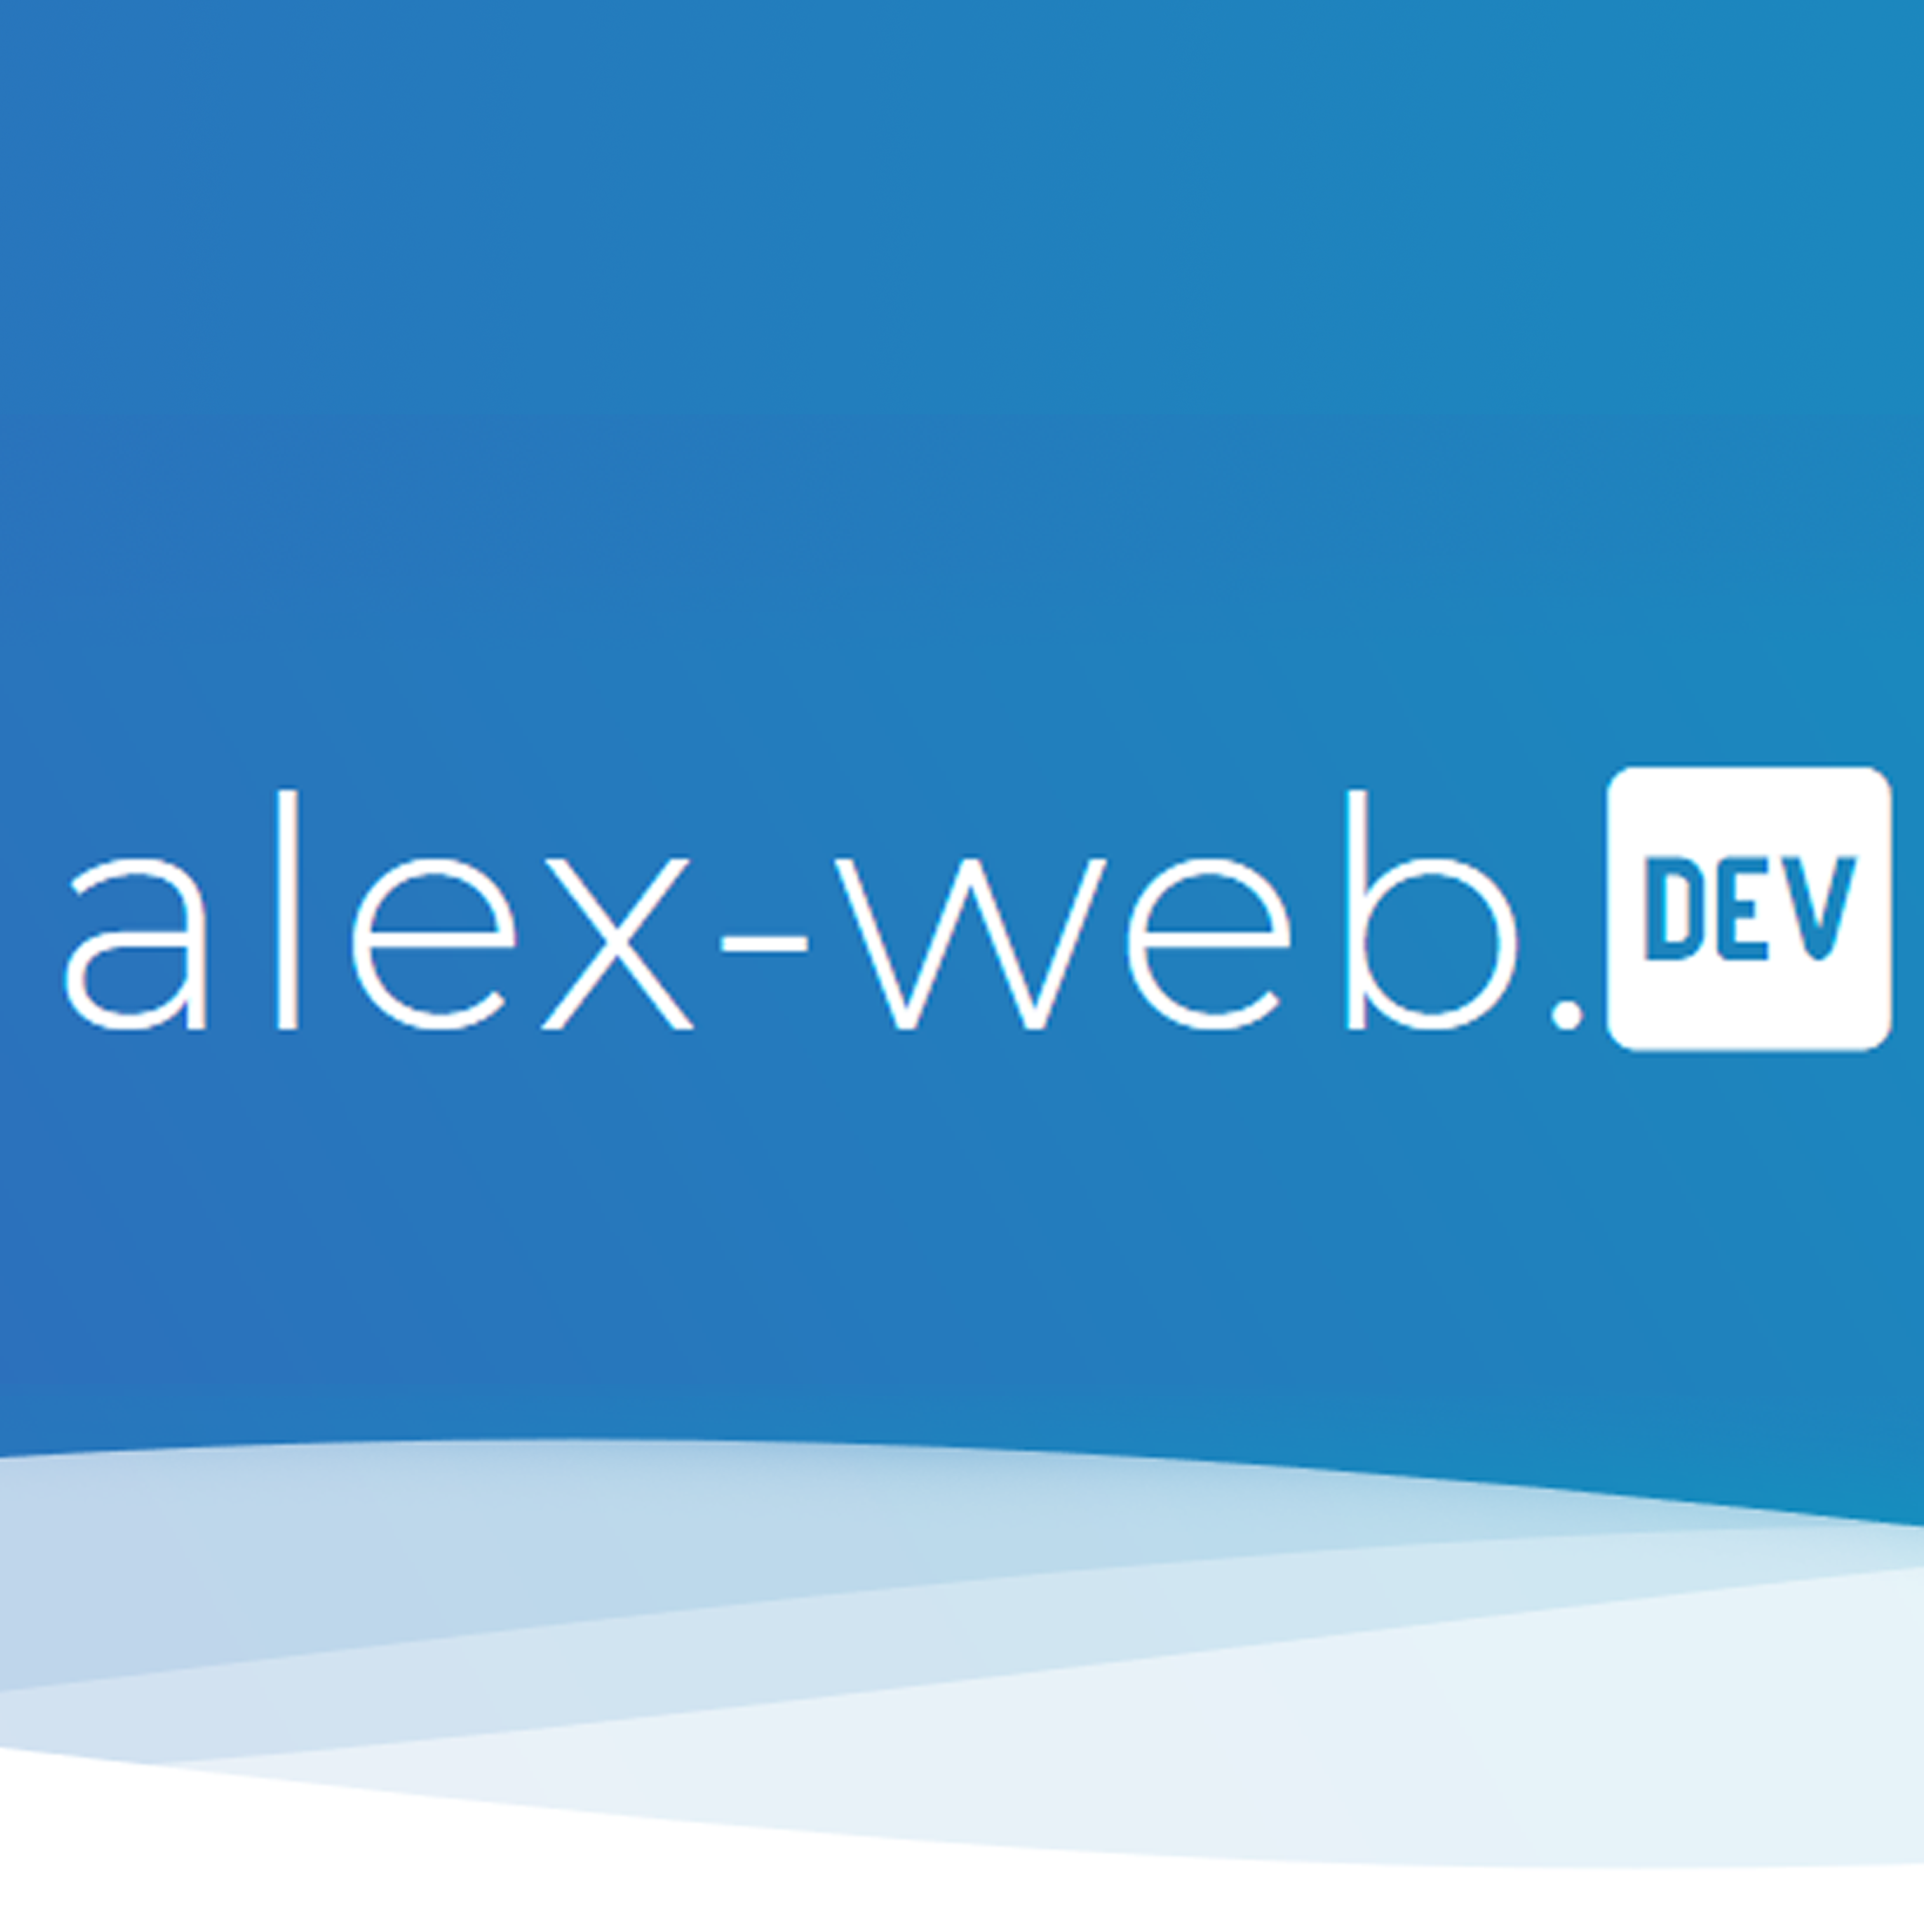
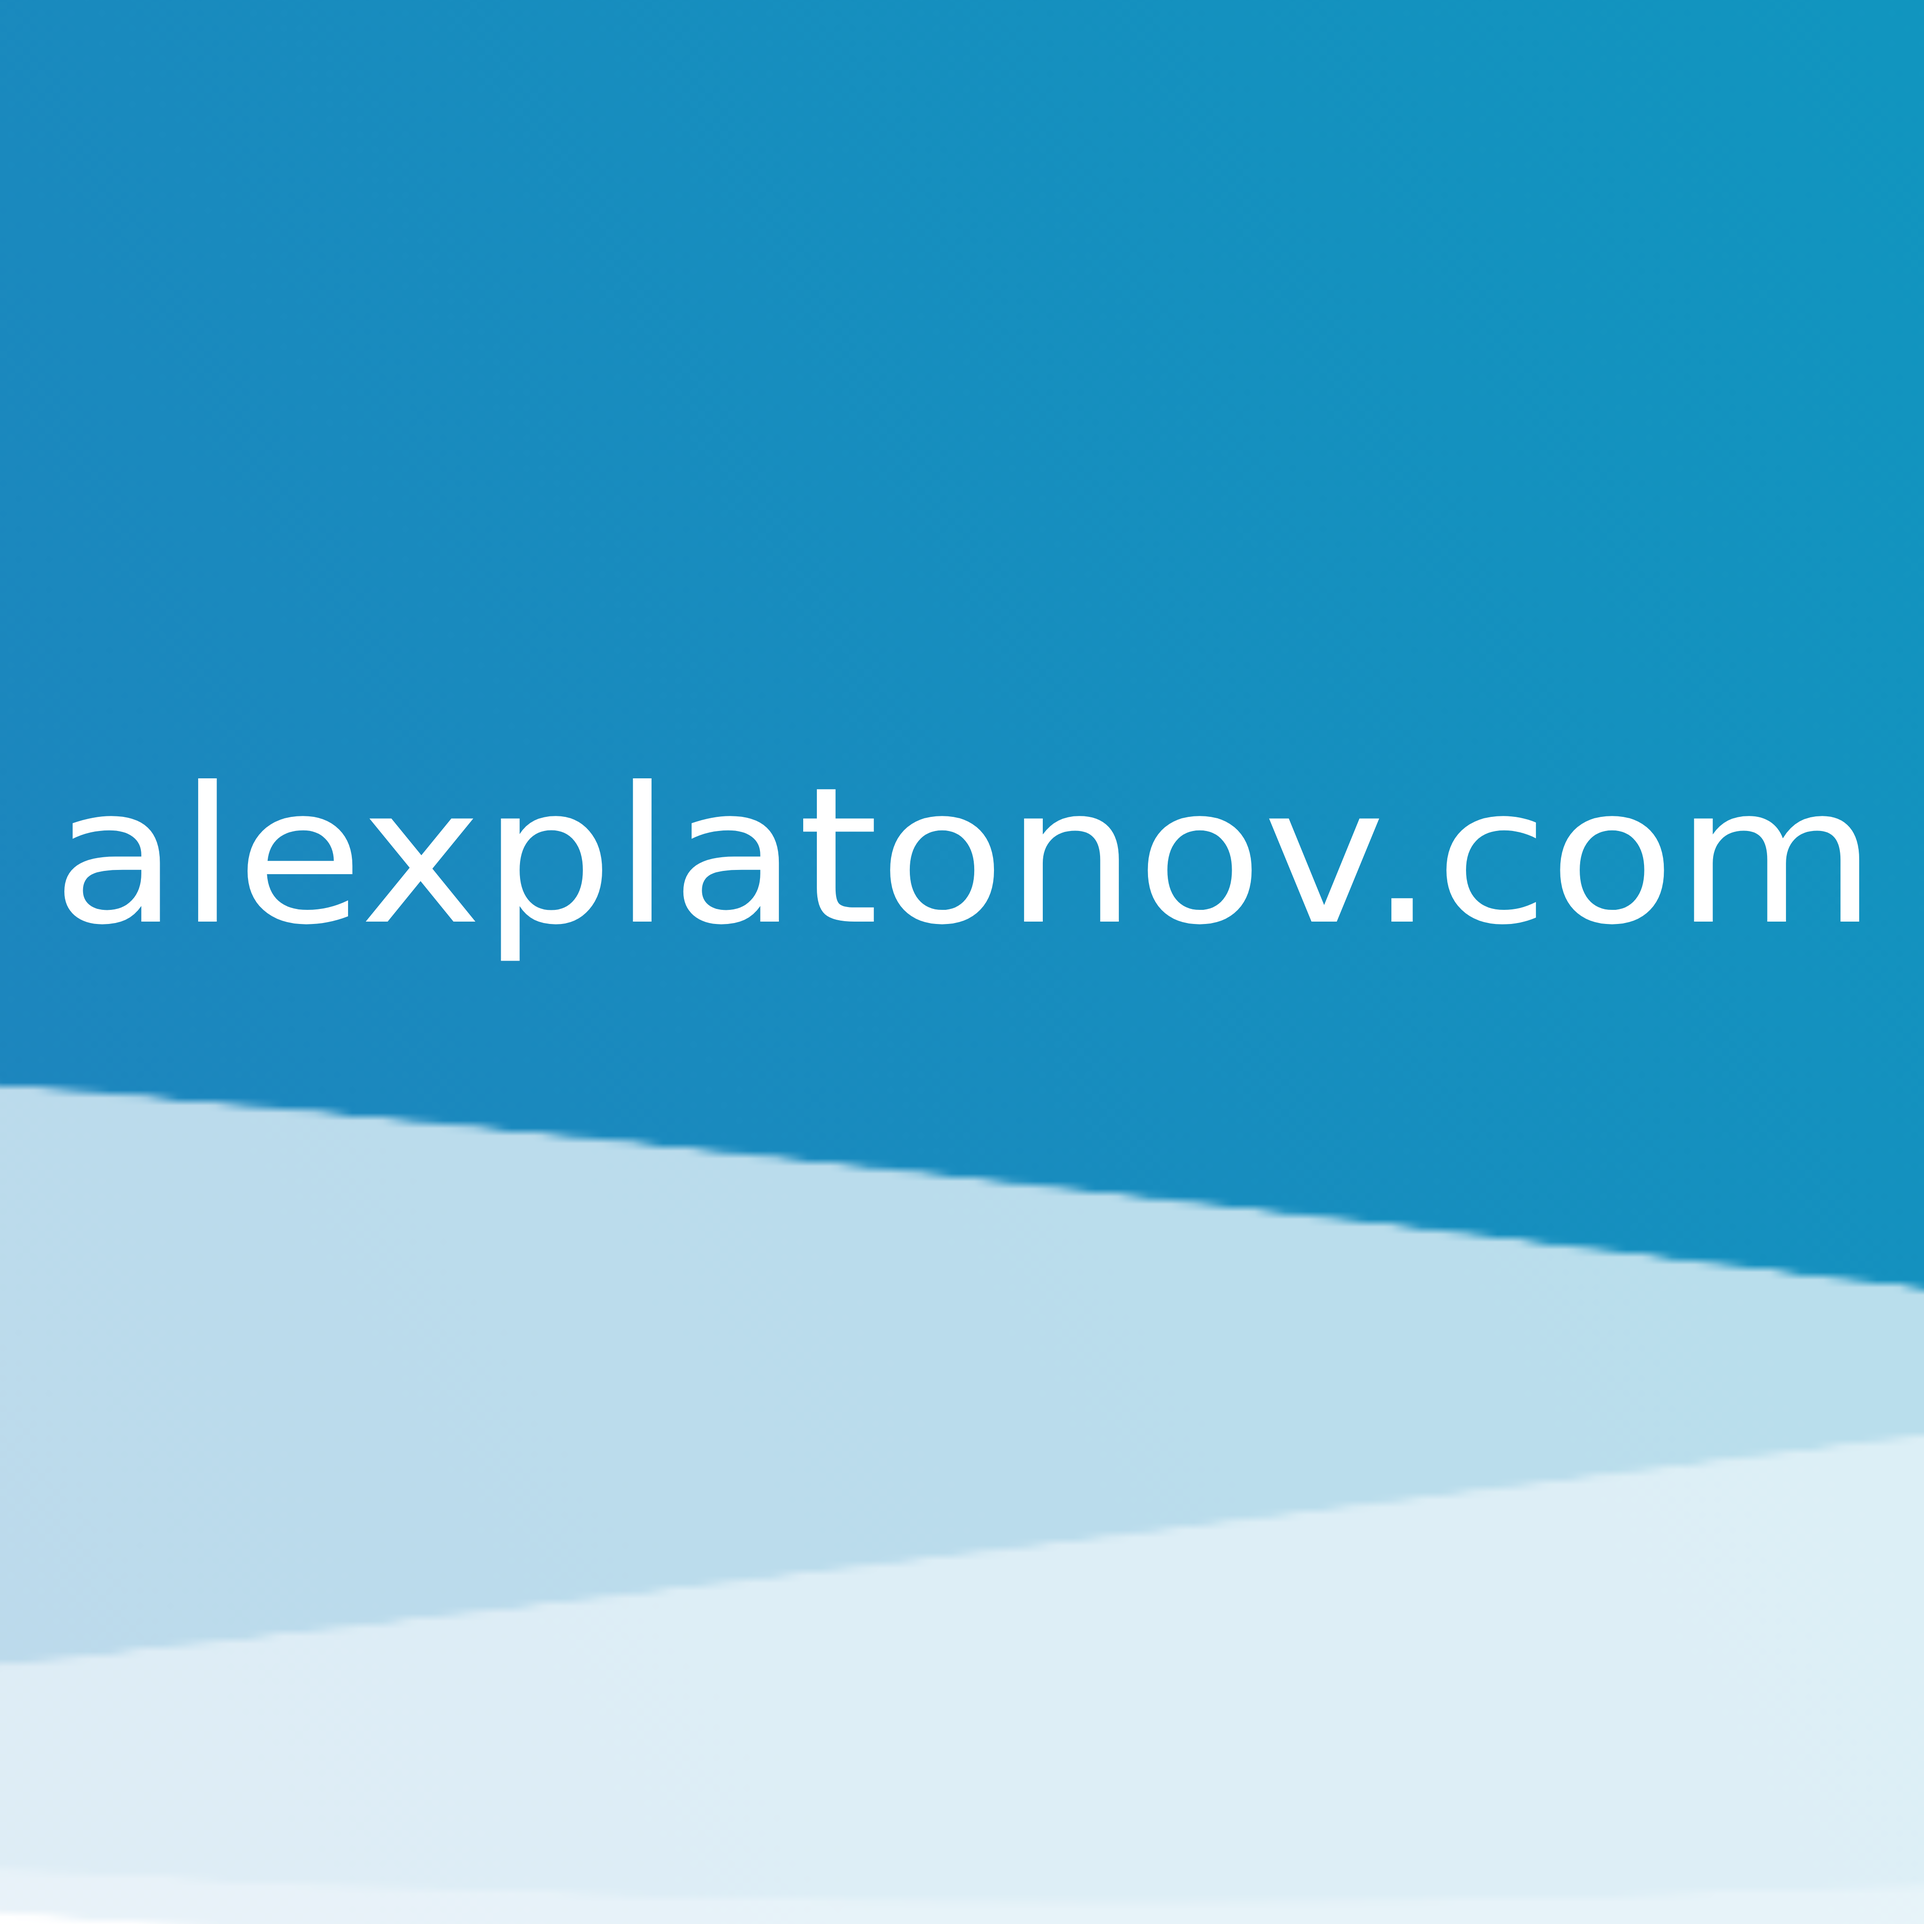
update site to alexplatonov.com

Changed region(s): [[0.0, 0.375, 1.0, 0.875], [0.0, 0.9062, 1.0, 1.0]]

diff --git a/mobile.html b/mobile.html
@@ -4,46 +4,46 @@
     <meta charset="UTF-8">
     <meta name="viewport" content="width=device-width, initial-scale=1.0">
     <meta http-equiv="X-UA-Compatible" content="ie=edge">
-    <meta name="description" content="Just another Website for Kaomojis!">
+    <meta name="description" content="https://www.alexplatonov.com">
     <link rel="icon" type="image/png" href="favicon-32x32.png" sizes="32x32">
     <!--Implement video meta data-->
 
     <!--New Meta data for WhatsApp-->
-    <meta name="description" content="No need for Ctrl+C and Ctrl+V!">
-    <meta property="og:title" content="Just another Website for Kaomojis!"/>
-    <meta property="og:url" content="https://www.0wo.moe" />
-    <meta property="og:description" content="Just another Website for Kaomojis!">
-    <meta property="og:image" content="https://www.0wo.moe/metaimgs/wametapic.jpg">
+    <meta name="description" content="Hi,  i'm Alex! I love turning coffee to code!☕">
+    <meta property="og:title" content="alex-web.dev"/>
+    <meta property="og:url" content="https://www.alexplatonov.com" />
+    <meta property="og:description" content="Hi,  i'm Alex! I love turning coffee to code!☕">
+    <meta property="og:image" content="/imgs/wametapic.png">
 
     <!-- Open Graph / Facebook -->
     <meta property="og:type" content="website">
-    <meta property="og:url" content="https://www.0wo.moe">
-    <meta property="og:title" content="Just another Website for Kaomojis!">
-    <meta property="og:description" content="No need for Ctrl+C and Ctrl+V!">
-    <meta property="og:image" content="https://www.0wo.moe/metaimgs/fb">
+    <meta property="og:url" content="https://www.alexplatonov.com">
+    <meta property="og:title" content="alex-web.dev">
+    <meta property="og:description" content="Hi,  i'm Alex! I love turning coffee to code!☕">
+    <meta property="og:image" content="/imgs/fbmetapic.png">
 
     <!-- Twitter -->
     <meta property="twitter:card" content="summary_large_image">
-    <meta property="twitter:url" content="https://www.0wo.moe">
-    <meta property="twitter:title" content="Just another Website for Kaomojis!">
-    <meta property="twitter:description" content="No need for Ctrl+C and Ctrl+V!">
-    <meta property="twitter:image" content="https://www.0wo.moe/metaimgs/fb">
+    <meta property="twitter:url" content="https://www.alexplatonov.com">
+    <meta property="twitter:title" content="alex-web.dev">
+    <meta property="twitter:description" content="Hi,  i'm Alex! I love turning coffee to code!☕">
+    <meta property="twitter:image" content="/imgs/twittermetapic.png">
 
     <link rel="stylesheet" href="style.css">
     <link rel="stylesheet" href="https://cdnjs.cloudflare.com/ajax/libs/animate.css/4.0.0/animate.min.css"/>
-    <title>alex-web.dev!</title>
+    <title>alexplatonov!</title>
 </head>
 <body>
     <div class="header">
         <div class="inner-header flex">
-            <h1>alex-web.<i class="fab fa-dev"></i></h1>
+            <h1><i class="fas fa-terminal"></i>&nbsp;<h1>alexplatonov.com</h1>
         </div>
             <p class="about">- Qualified IT-Salesman -</p>
             <p class="about">- Hobby Webdeveloper -</p>
             <p class="about">- 3D printing enthusiast -</p>
         
         <br>
-    <a href="https://www.mibph.org/comingsoon.html"><img class="animate__animated animate__fadeInUp pb" src="imgs/takoyakii.jpg"></i></a>
+    <a href="alexplatonov.com/portfolio"><img class="animate__animated animate__fadeInUp pb" src="imgs/takoyakii.jpg"></i></a>
         <p class="about"><i>"Hi! My name is Alex and in my spare time i like to convert coffee to code! I build websites but also do a lot of other cool projects, feel free to check them out!"</i></p>
         <div class ="endcard animate__animated animate__fadeInUp">
         <br>
@@ -57,11 +57,11 @@
             <p style="font-size:large;">View my Portfolio</p>
         </div>
         <br>
-<a href="https://www.mibph.org/comingsoon.html"><i class="fas fa-id-card fa-9x animate__animated animate__fadeInUp card"></i></a>
+<a href="alexplatonov.com/portfolio"><i class="fas fa-id-card fa-9x animate__animated animate__fadeInUp card"></i></a>
     </div>
         <div class="container">
-            <a href="mailto:alex@platonov.email" class="button animate__animated animate__fadeInUp">Contact me&nbsp;<i class="far fa-envelope"></i></a>
-            <span class="animate__animated animate__fadeInUp">©2020 alex-web.dev | ©Takolabs</span>
+            <a href="mailto:alexplatonov.com" class="button animate__animated animate__fadeInUp">Contact me&nbsp;<i class="far fa-envelope"></i></a>
+            <span class="animate__animated animate__fadeInUp">©2020 alexplatonov.com</span>
         </div>  
         <div>
             <svg class="waves" xmlns="http://www.w3.org/2000/svg" xmlns:xlink="http://www.w3.org/1999/xlink" viewBox="0 24 150 28" preserveAspectRatio="none" shape-rendering="auto">

diff --git a/index.html b/index.html
@@ -4,34 +4,34 @@
     <meta charset="UTF-8">
     <meta name="viewport" content="width=device-width, initial-scale=1.0">
     <meta http-equiv="X-UA-Compatible" content="ie=edge">
-    <meta name="description" content="alex-web.dev">
+    <meta name="description" content="https://www.alexplatonov.com">
     <link rel="icon" type="image/png" href="favicon-32x32.png" sizes="32x32">
     <!--Implement video meta data-->
 
     <!--New Meta data for WhatsApp-->
     <meta name="description" content="Hi,  i'm Alex! I love turning coffee to code!☕">
     <meta property="og:title" content="alex-web.dev"/>
-    <meta property="og:url" content="https://www.alex-web.dev" />
+    <meta property="og:url" content="https://www.alexplatonov.com" />
     <meta property="og:description" content="Hi,  i'm Alex! I love turning coffee to code!☕">
     <meta property="og:image" content="/imgs/wametapic.png">
 
     <!-- Open Graph / Facebook -->
     <meta property="og:type" content="website">
-    <meta property="og:url" content="https://www.alex-web.dev">
+    <meta property="og:url" content="https://www.alexplatonov.com">
     <meta property="og:title" content="alex-web.dev">
     <meta property="og:description" content="Hi,  i'm Alex! I love turning coffee to code!☕">
     <meta property="og:image" content="/imgs/fbmetapic.png">
 
     <!-- Twitter -->
     <meta property="twitter:card" content="summary_large_image">
-    <meta property="twitter:url" content="https://www.alex-web.dev">
+    <meta property="twitter:url" content="https://www.alexplatonov.com">
     <meta property="twitter:title" content="alex-web.dev">
     <meta property="twitter:description" content="Hi,  i'm Alex! I love turning coffee to code!☕">
     <meta property="twitter:image" content="/imgs/twittermetapic.png">
 
     <link rel="stylesheet" href="style.css">
     <link rel="stylesheet" href="https://cdnjs.cloudflare.com/ajax/libs/animate.css/4.0.0/animate.min.css"/>
-    <title>alex-web.dev!</title>
+    <title>alexplatonov.com!</title>
     <script type="text/javascript">
         if (screen.width <= 699) {
         document.location = "mobile.html";}
@@ -40,12 +40,12 @@
 <body>
     <div class="header">
         <div class="inner-header flex">
-            <h1>alex-web.<i class="fab fa-dev"></i></h1>
+            <h1><i class="fas fa-terminal"></i>&nbsp;<h1>alexplatonov.com</h1>
         </div>
         <p class="skills"> Hobby Webdeveloper | Qualified IT-Management assistant |  3D printing enthusiast</p>
         <p class="about" style="font-family: Comic Sans MS; "><i>"Hello! My name is Alex and in my spare time i like to convert coffee to code! I build websites but also do a lot of other cool projects, feel free to check them out!"</i></p>
         <div>
-            <a href="https://www.mibph.org/comingsoon.html"><img class="animate__animated animate__fadeInUp pb" src="imgs/takoyakii.jpg" ></i></a>
+            <a href="alexplatonov.com/portfolio"><img class="animate__animated animate__fadeInUp pb" src="imgs/takoyakii.jpg" ></i></a>
         </div>
         <div class ="endcard animate__animated animate__fadeInUp">
             <div>
@@ -55,12 +55,12 @@
                 <p style="font-size:large;">Visit my GitHub</p>
             </div>
         </div>
-        <a href="https://www.mibph.org/comingsoon.html"><i class="fas fa-id-card fa-9x animate__animated animate__fadeInUp card">&nbsp;&nbsp;</i></a>
+        <a href="halexplatonov.com/portfolio"><i class="fas fa-id-card fa-9x animate__animated animate__fadeInUp card">&nbsp;&nbsp;</i></a>
         <a href="https://github.com/xtakoyakii/"><i class="fab fa-github fa-9x animate__animated animate__fadeInUp github"></i></a>
         <br>
         <div class="container">
-            <a href="mailto:alex@platonov.email" class="button animate__animated animate__fadeInUp">Contact me&nbsp;<i class="far fa-envelope"></i></a>
-            <span class="animate__animated animate__fadeInUp">©2020 alex-web.dev | ©Takolabs</span>
+            <a href="mailto:info@alexplatonov.com" class="button animate__animated animate__fadeInUp">Contact me&nbsp;<i class="far fa-envelope"></i></a>
+            <span class="animate__animated animate__fadeInUp">©2020 alexplatonov.com</span>
         </div>  
         <div>
             <svg class="waves" xmlns="http://www.w3.org/2000/svg" xmlns:xlink="http://www.w3.org/1999/xlink" viewBox="0 24 150 28" preserveAspectRatio="none" shape-rendering="auto">

diff --git a/404.html b/404.html
@@ -1,0 +1,35 @@
+<!doctype html>
+<html lang="en">
+<head>
+<meta charset="utf-8">
+<meta name="viewport" content="width=device-width, initial-scale=1">
+<meta name="description" content="Just another Website for Kaomojis!">
+<title>0wo-no!</title>
+<style>
+h1 {
+    color: hotpink;
+    font-family: Comic Sans MS;
+}
+p {
+    color: hotpink;
+    font-family: Comic Sans MS;
+}
+</style>
+</head>
+<body>
+<h1>I'm sorry, but i couldn't find anything uwu</h1>
+<img src="imgs/missingsite.gif" style="width:30%" alt="owo no!">
+<ul>
+  <li>
+    <p>Is your spelling correct?</p>
+  </li>
+  <li>
+    <p>Maybe this article was deleted!</p>
+  </li>
+  <li>
+    <p>Anyway, you might aswell just go back!</p>
+  </li>
+</ul>
+<a href="https://www.0wo.moe">Home!~</a>
+</body>
+</html>
